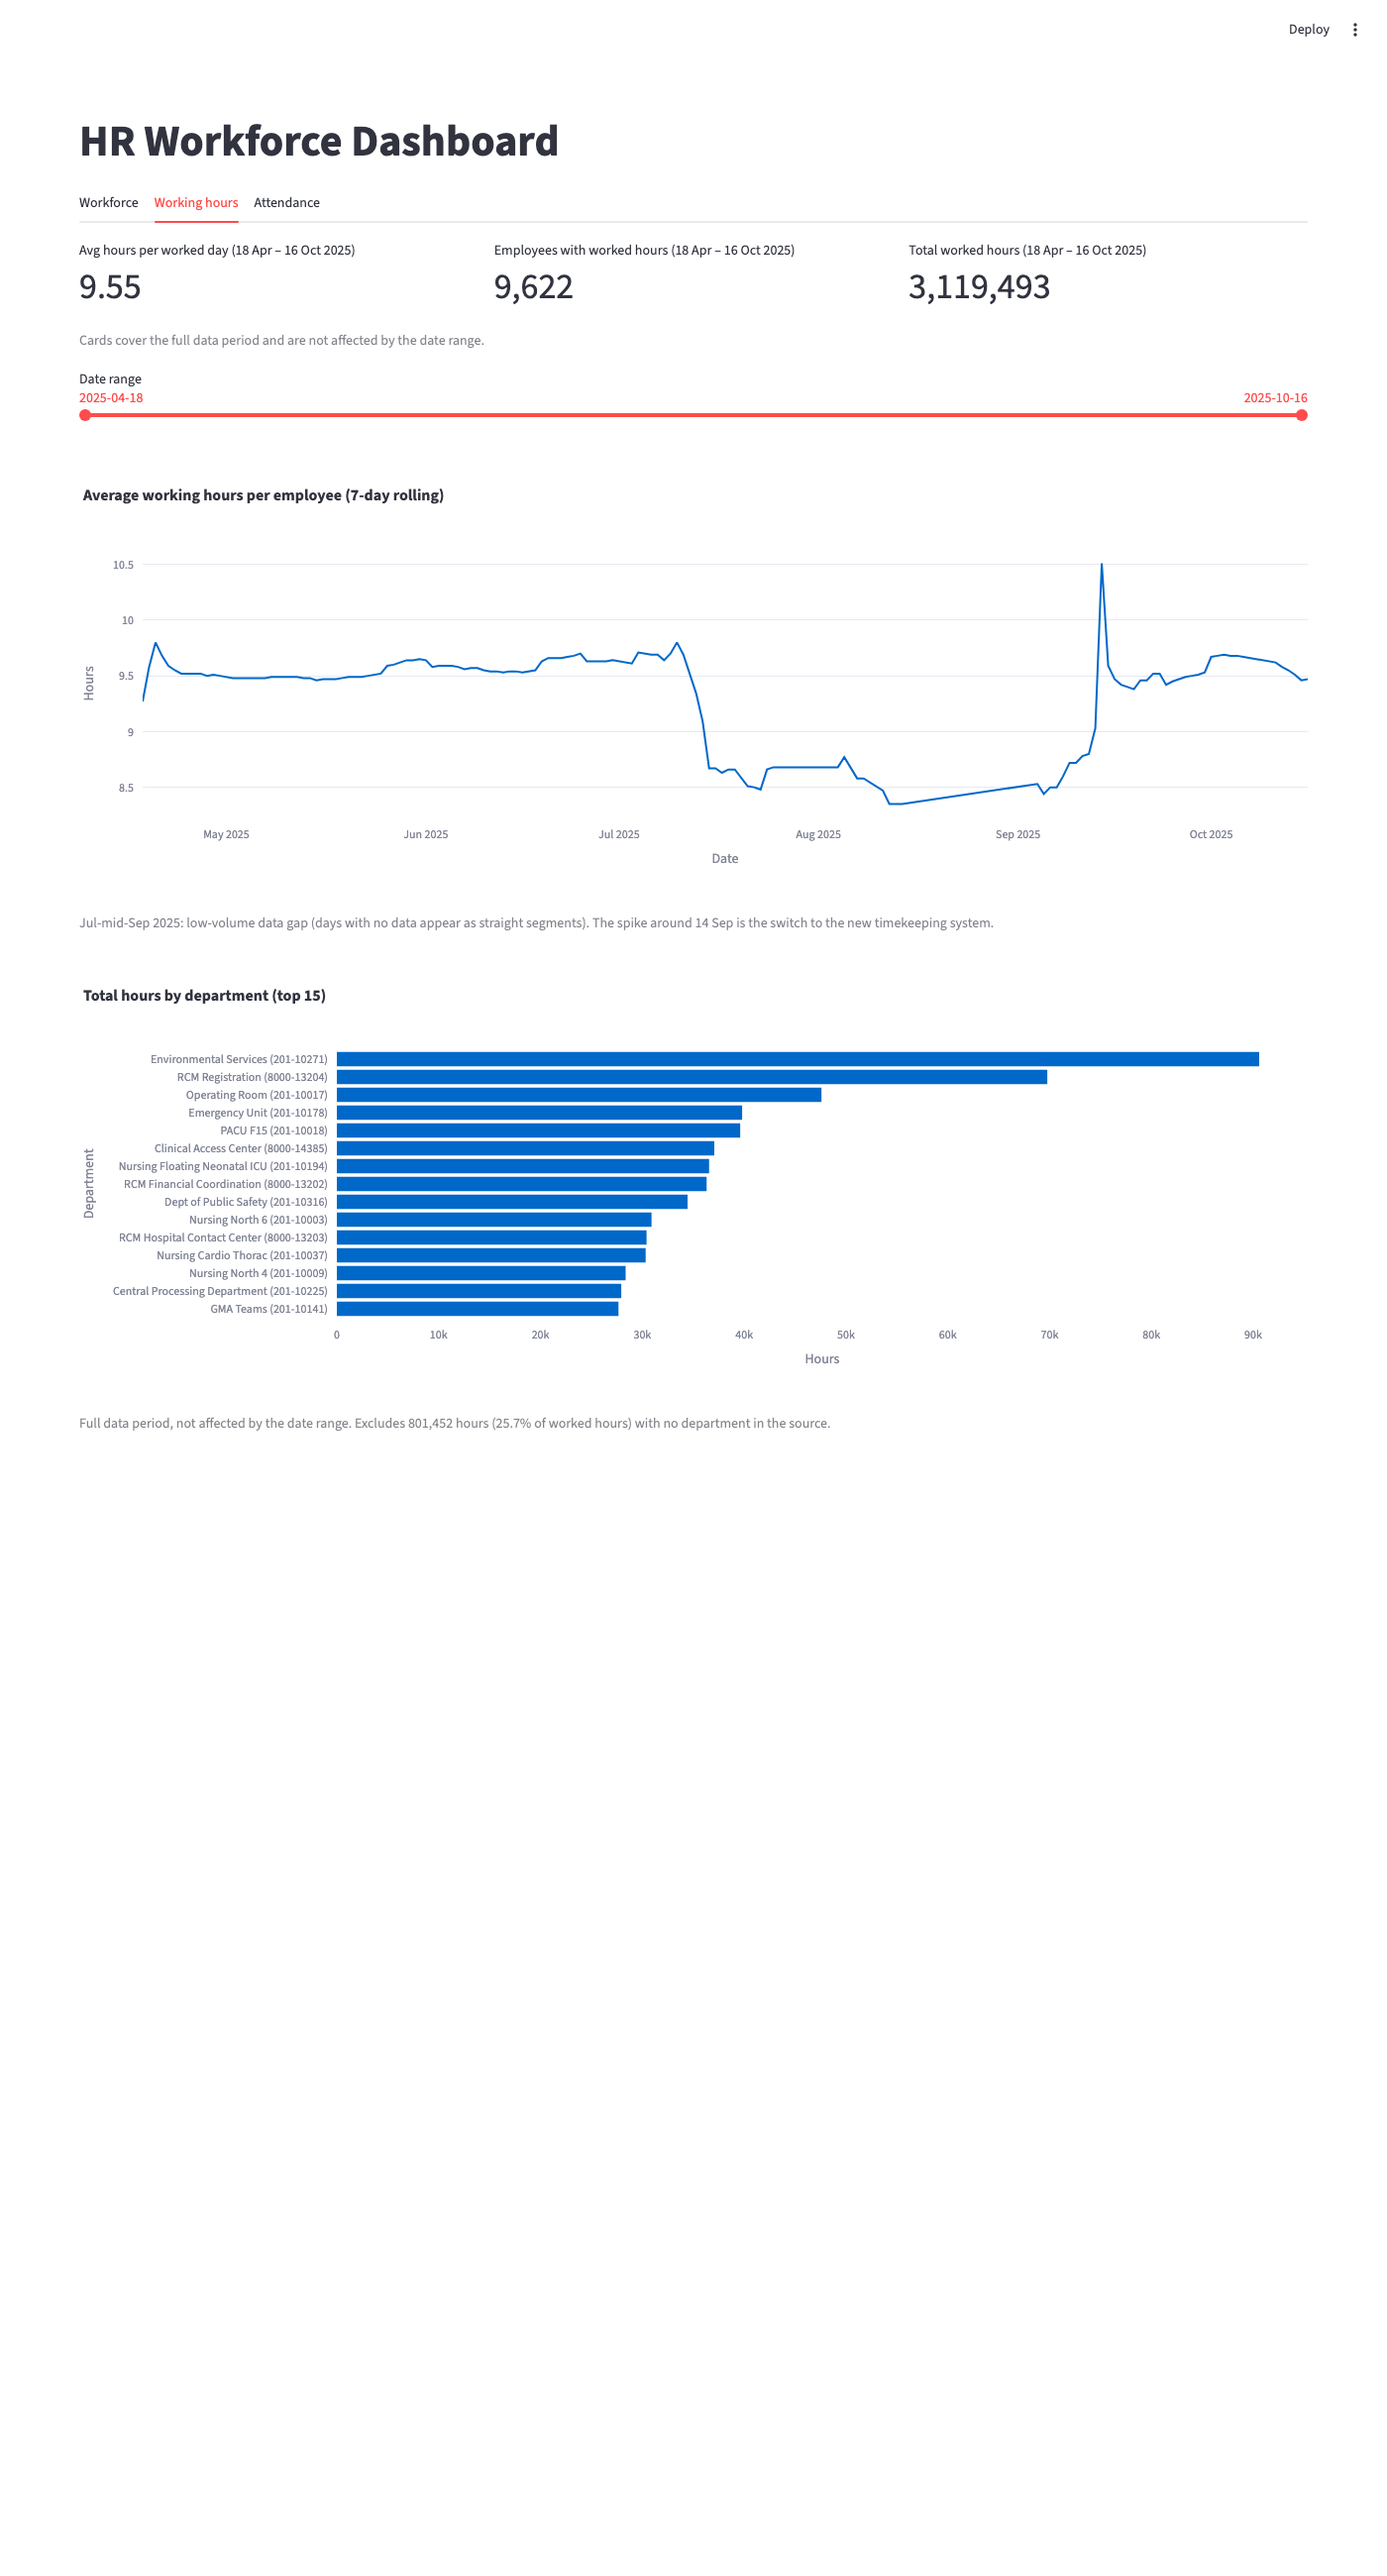
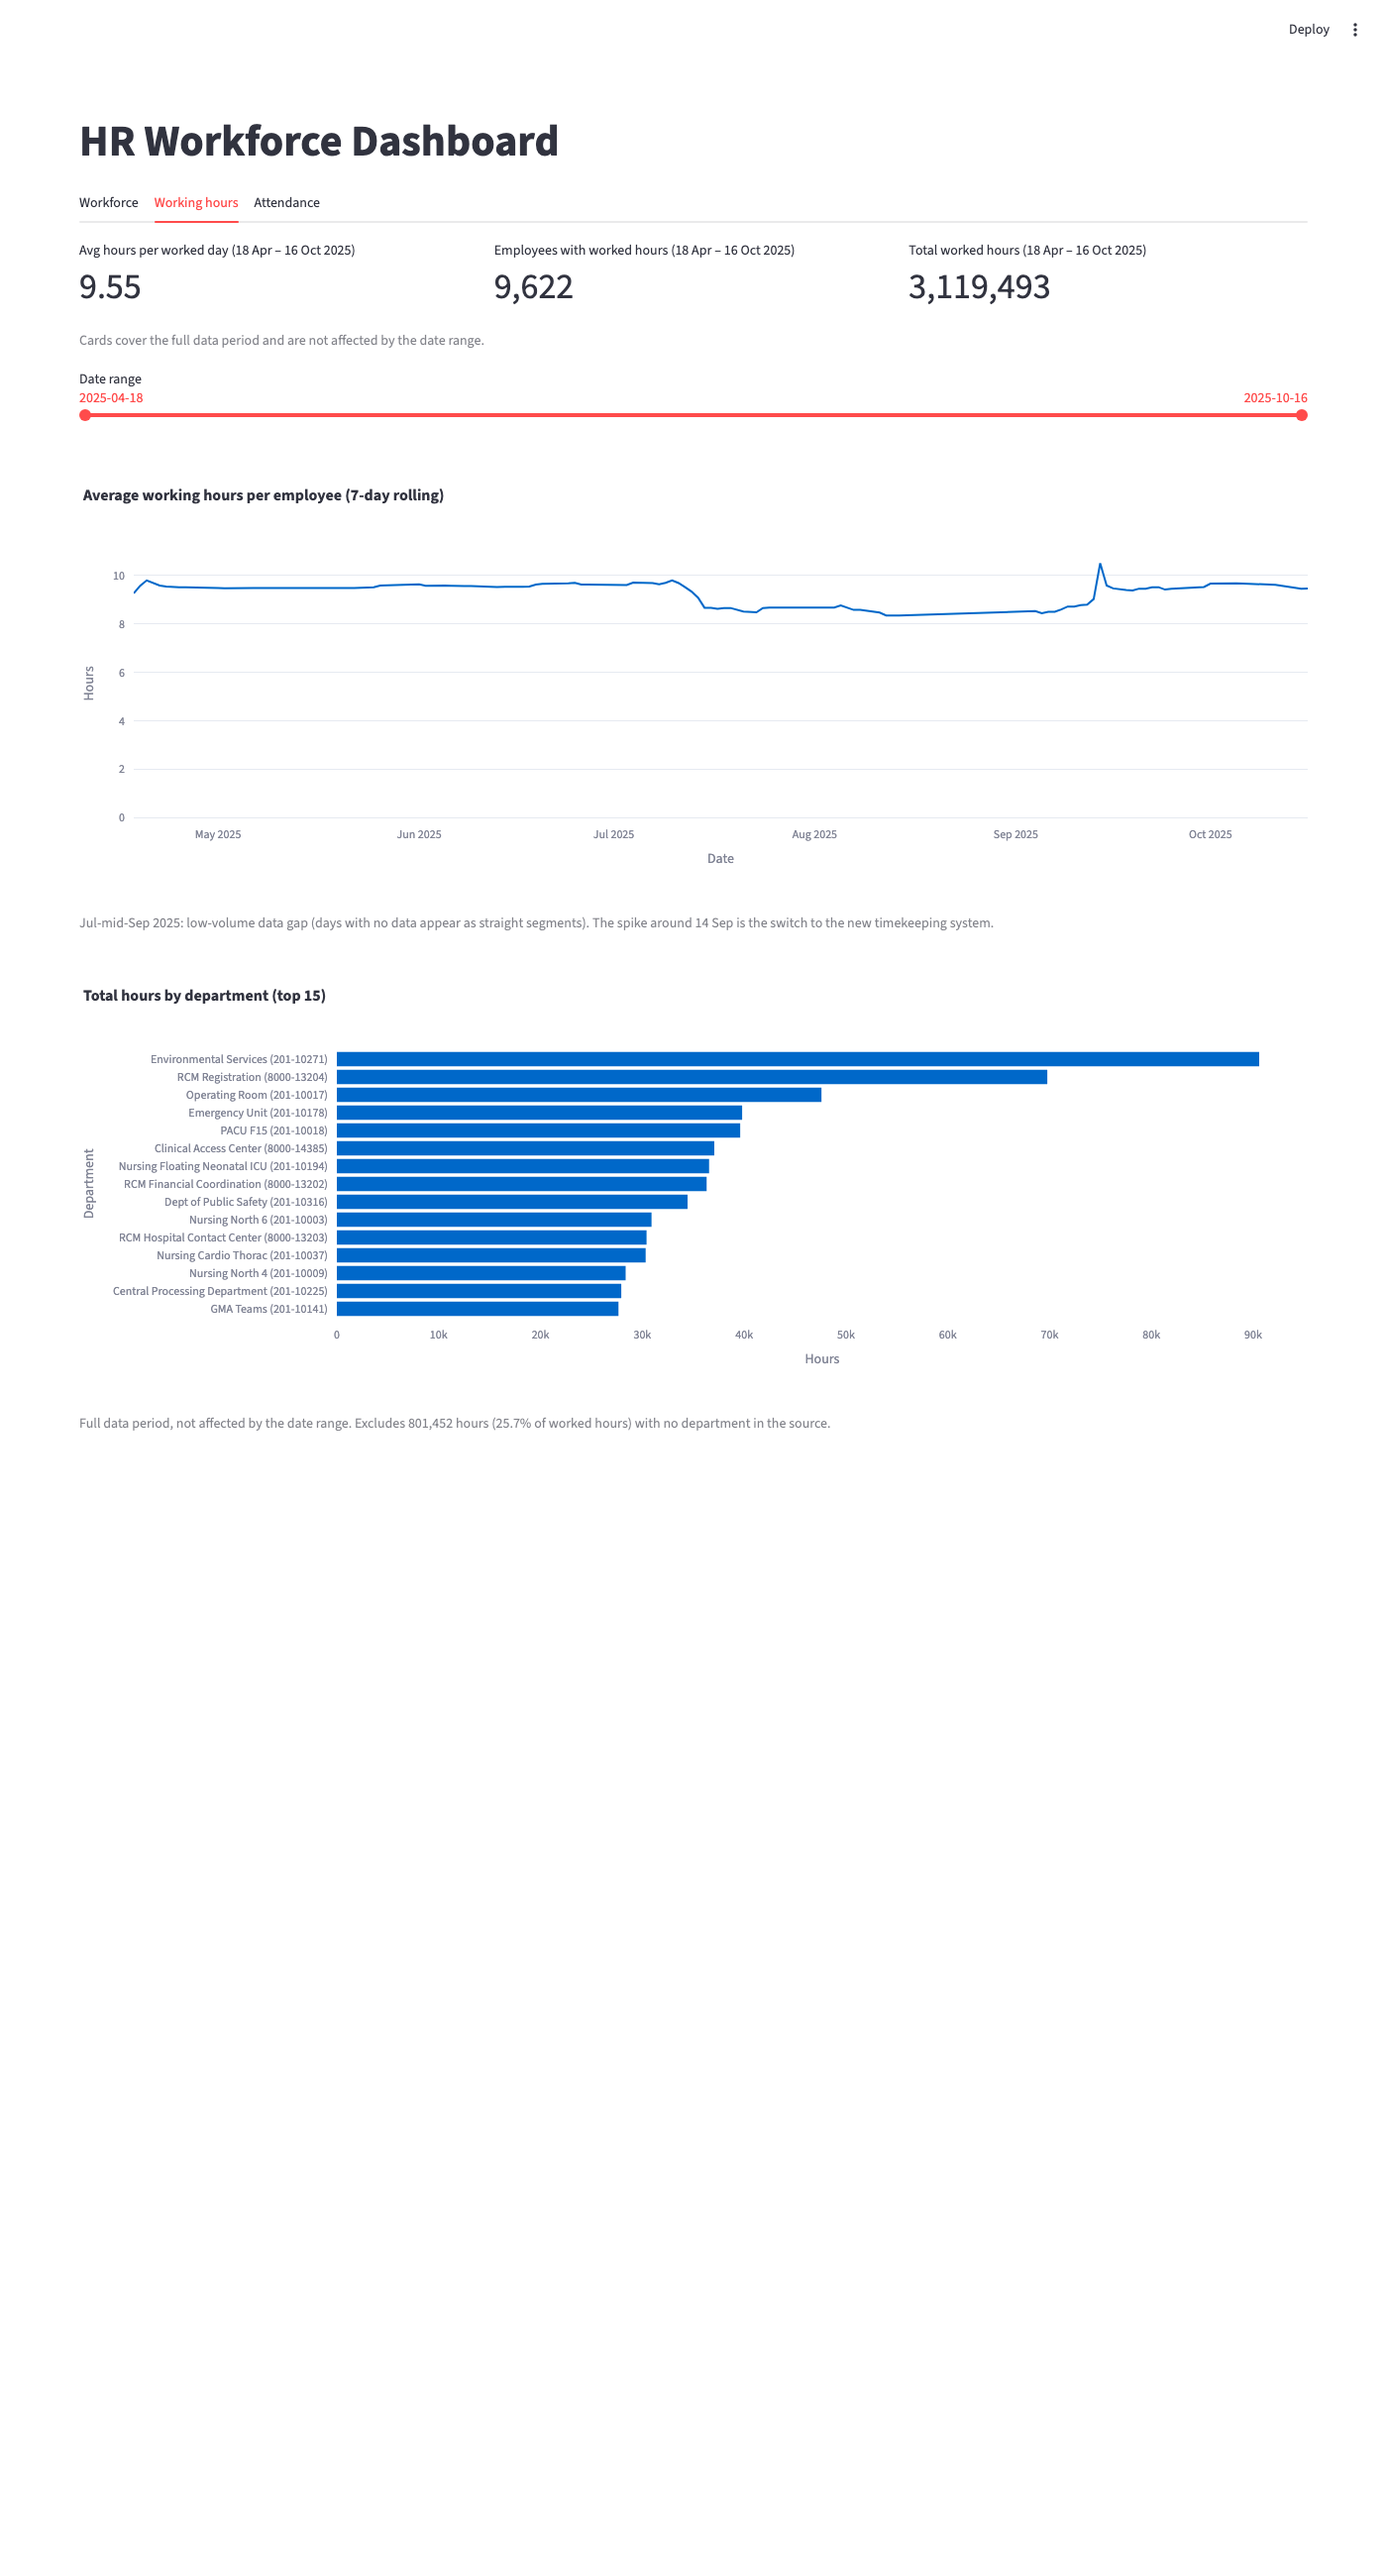
Start the rolling hours axis at zero and show the full selected date range

Changed region(s): [[0.7679, 0.2181, 0.7986, 0.2804], [0.0921, 0.2492, 0.1229, 0.2804]]

diff --git a/dashboard/app.py b/dashboard/app.py
@@ -110,12 +110,17 @@ with hours_tab:
     st.caption(CARDS_NOTE)
 
     start, end = date_filter("hours_dates", first_day, last_day)
-    st.plotly_chart(px.line(
+    fig = px.line(
         hours[hours["work_date"].between(start, end)],
         x="work_date", y="rolling_7d_avg_hours",
         title="Average working hours per employee (7-day rolling)",
         labels={"work_date": "Date", "rolling_7d_avg_hours": "Hours"},
-    ))
+    )
+    # Start at 0 so small changes don't look like big drops
+    fig.update_yaxes(rangemode="tozero")
+    # Show the whole selected range, even days with no data
+    fig.update_xaxes(range=[start, end])
+    st.plotly_chart(fig)
     st.caption("Jul-mid-Sep 2025: low-volume data gap (days with no data "
                "appear as straight segments). The spike around 14 Sep is the "
                "switch to the new timekeeping system.")
